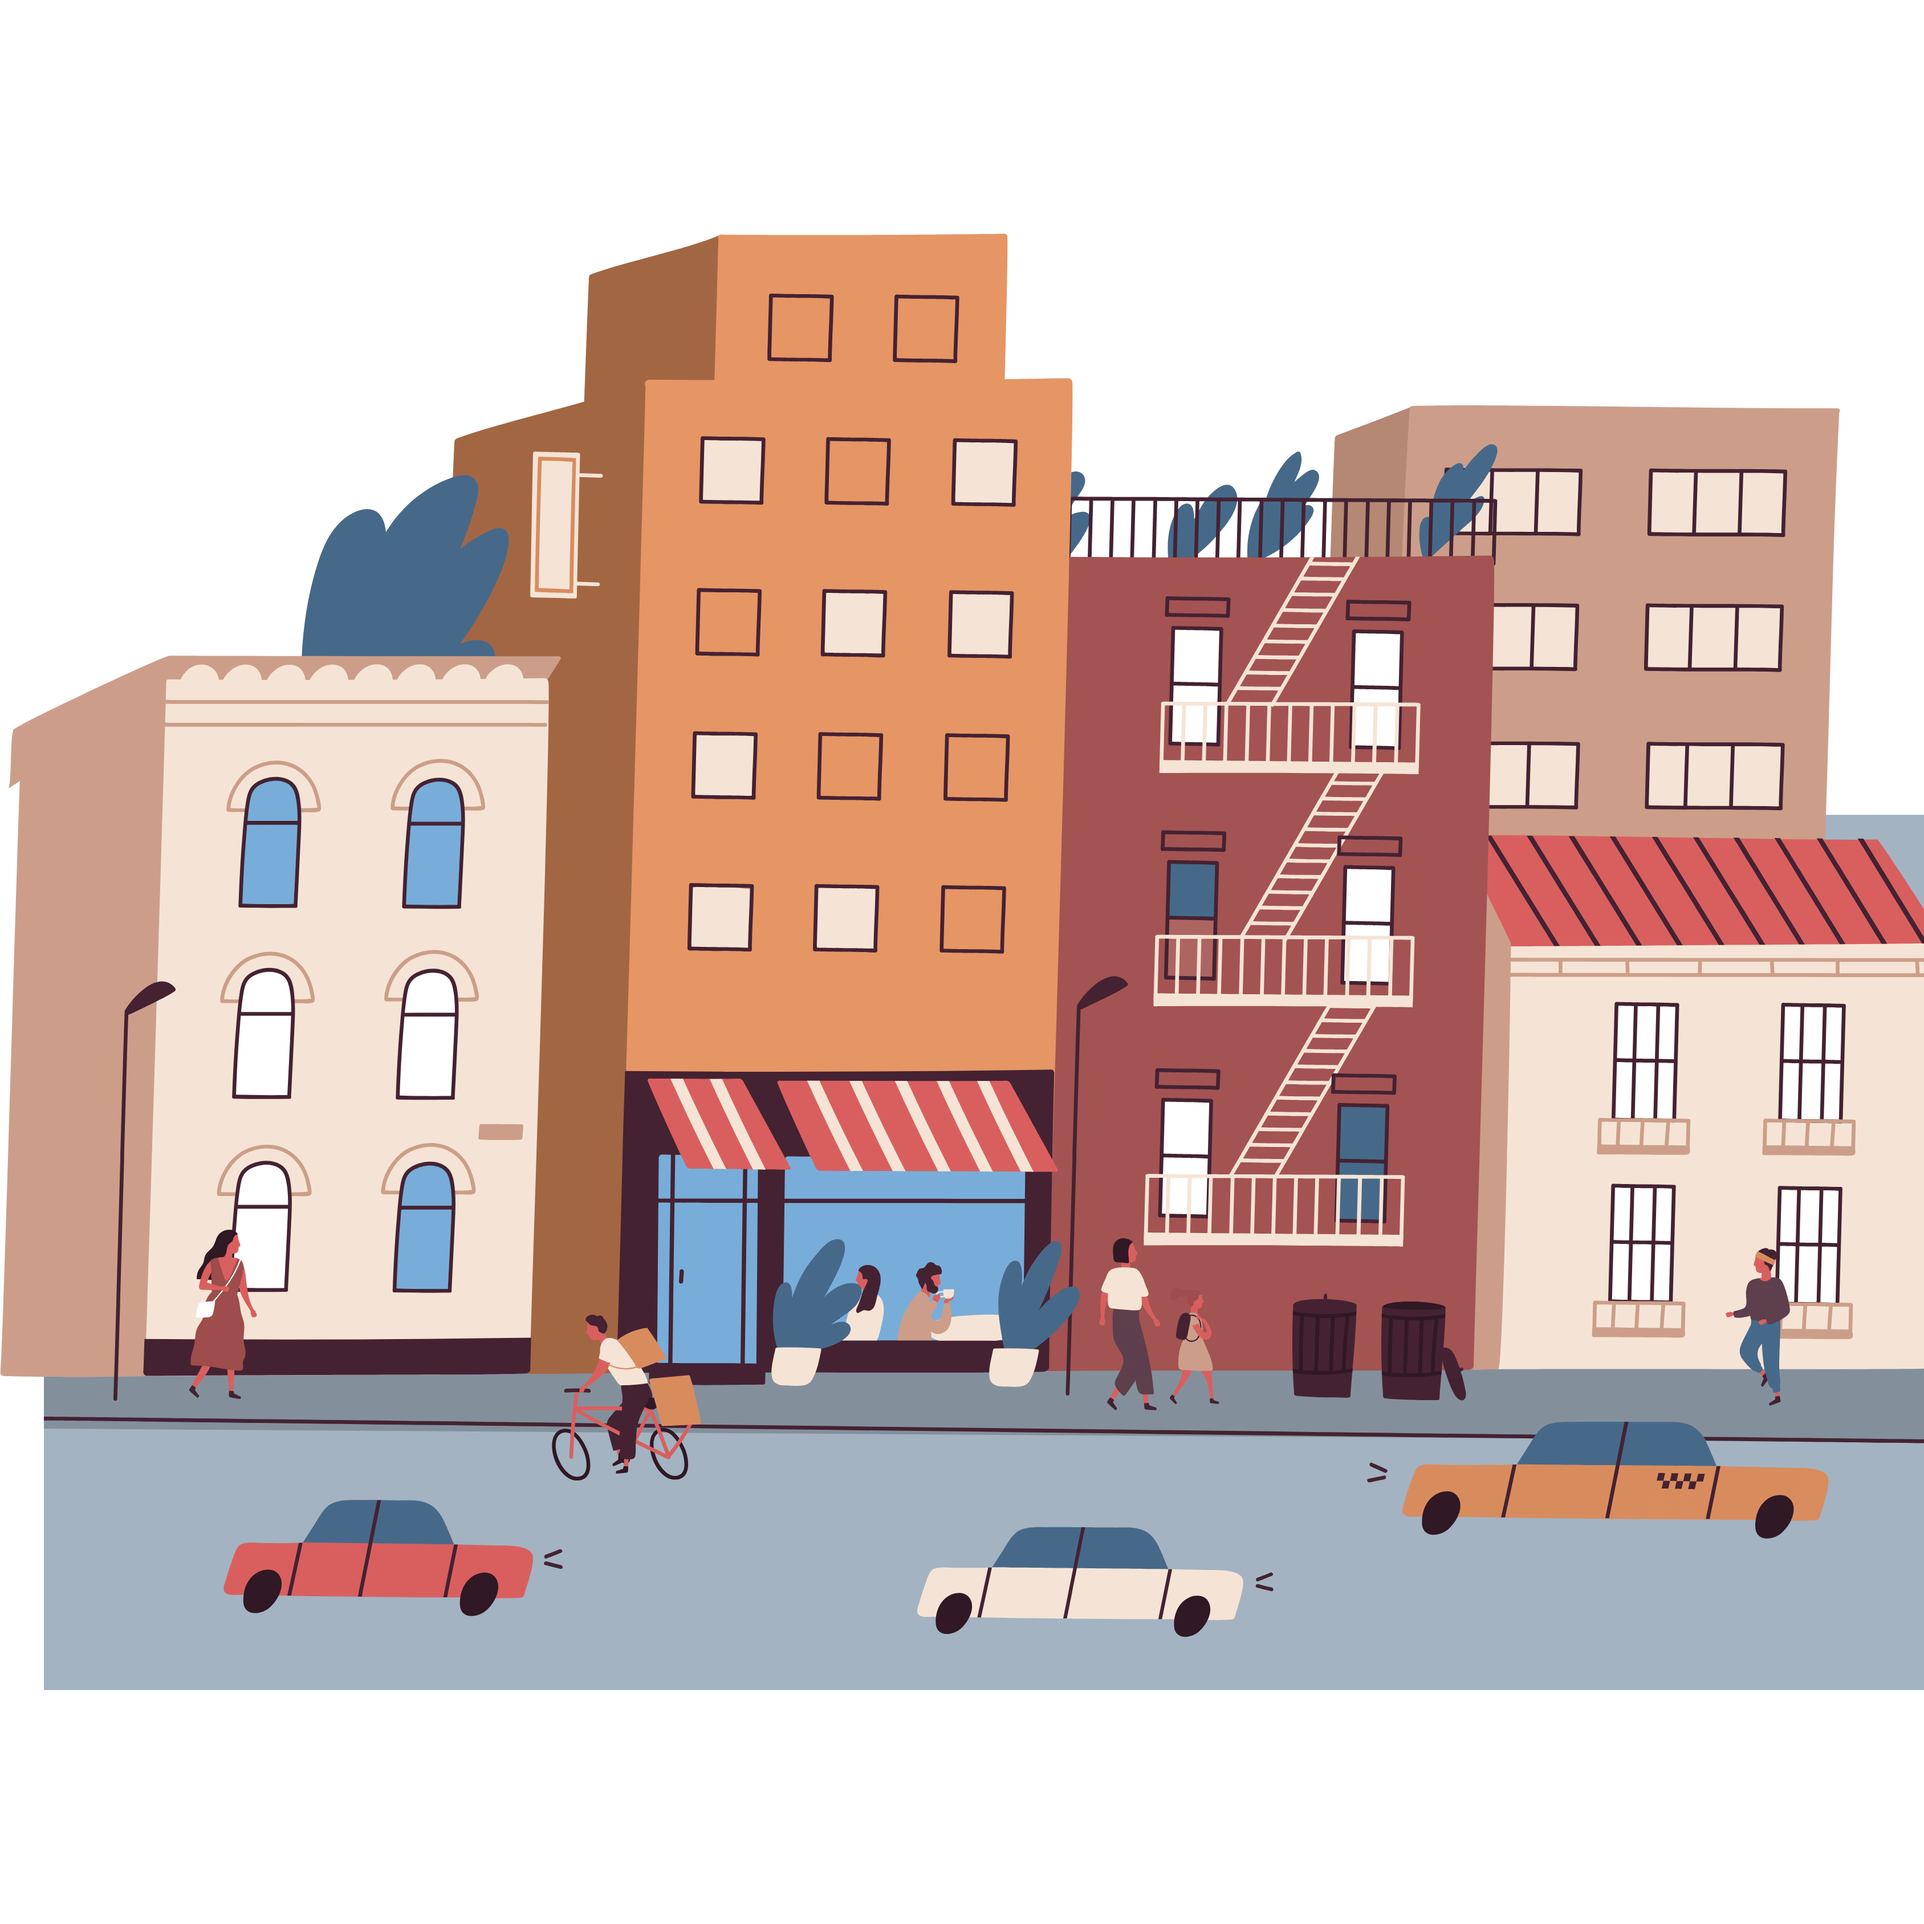
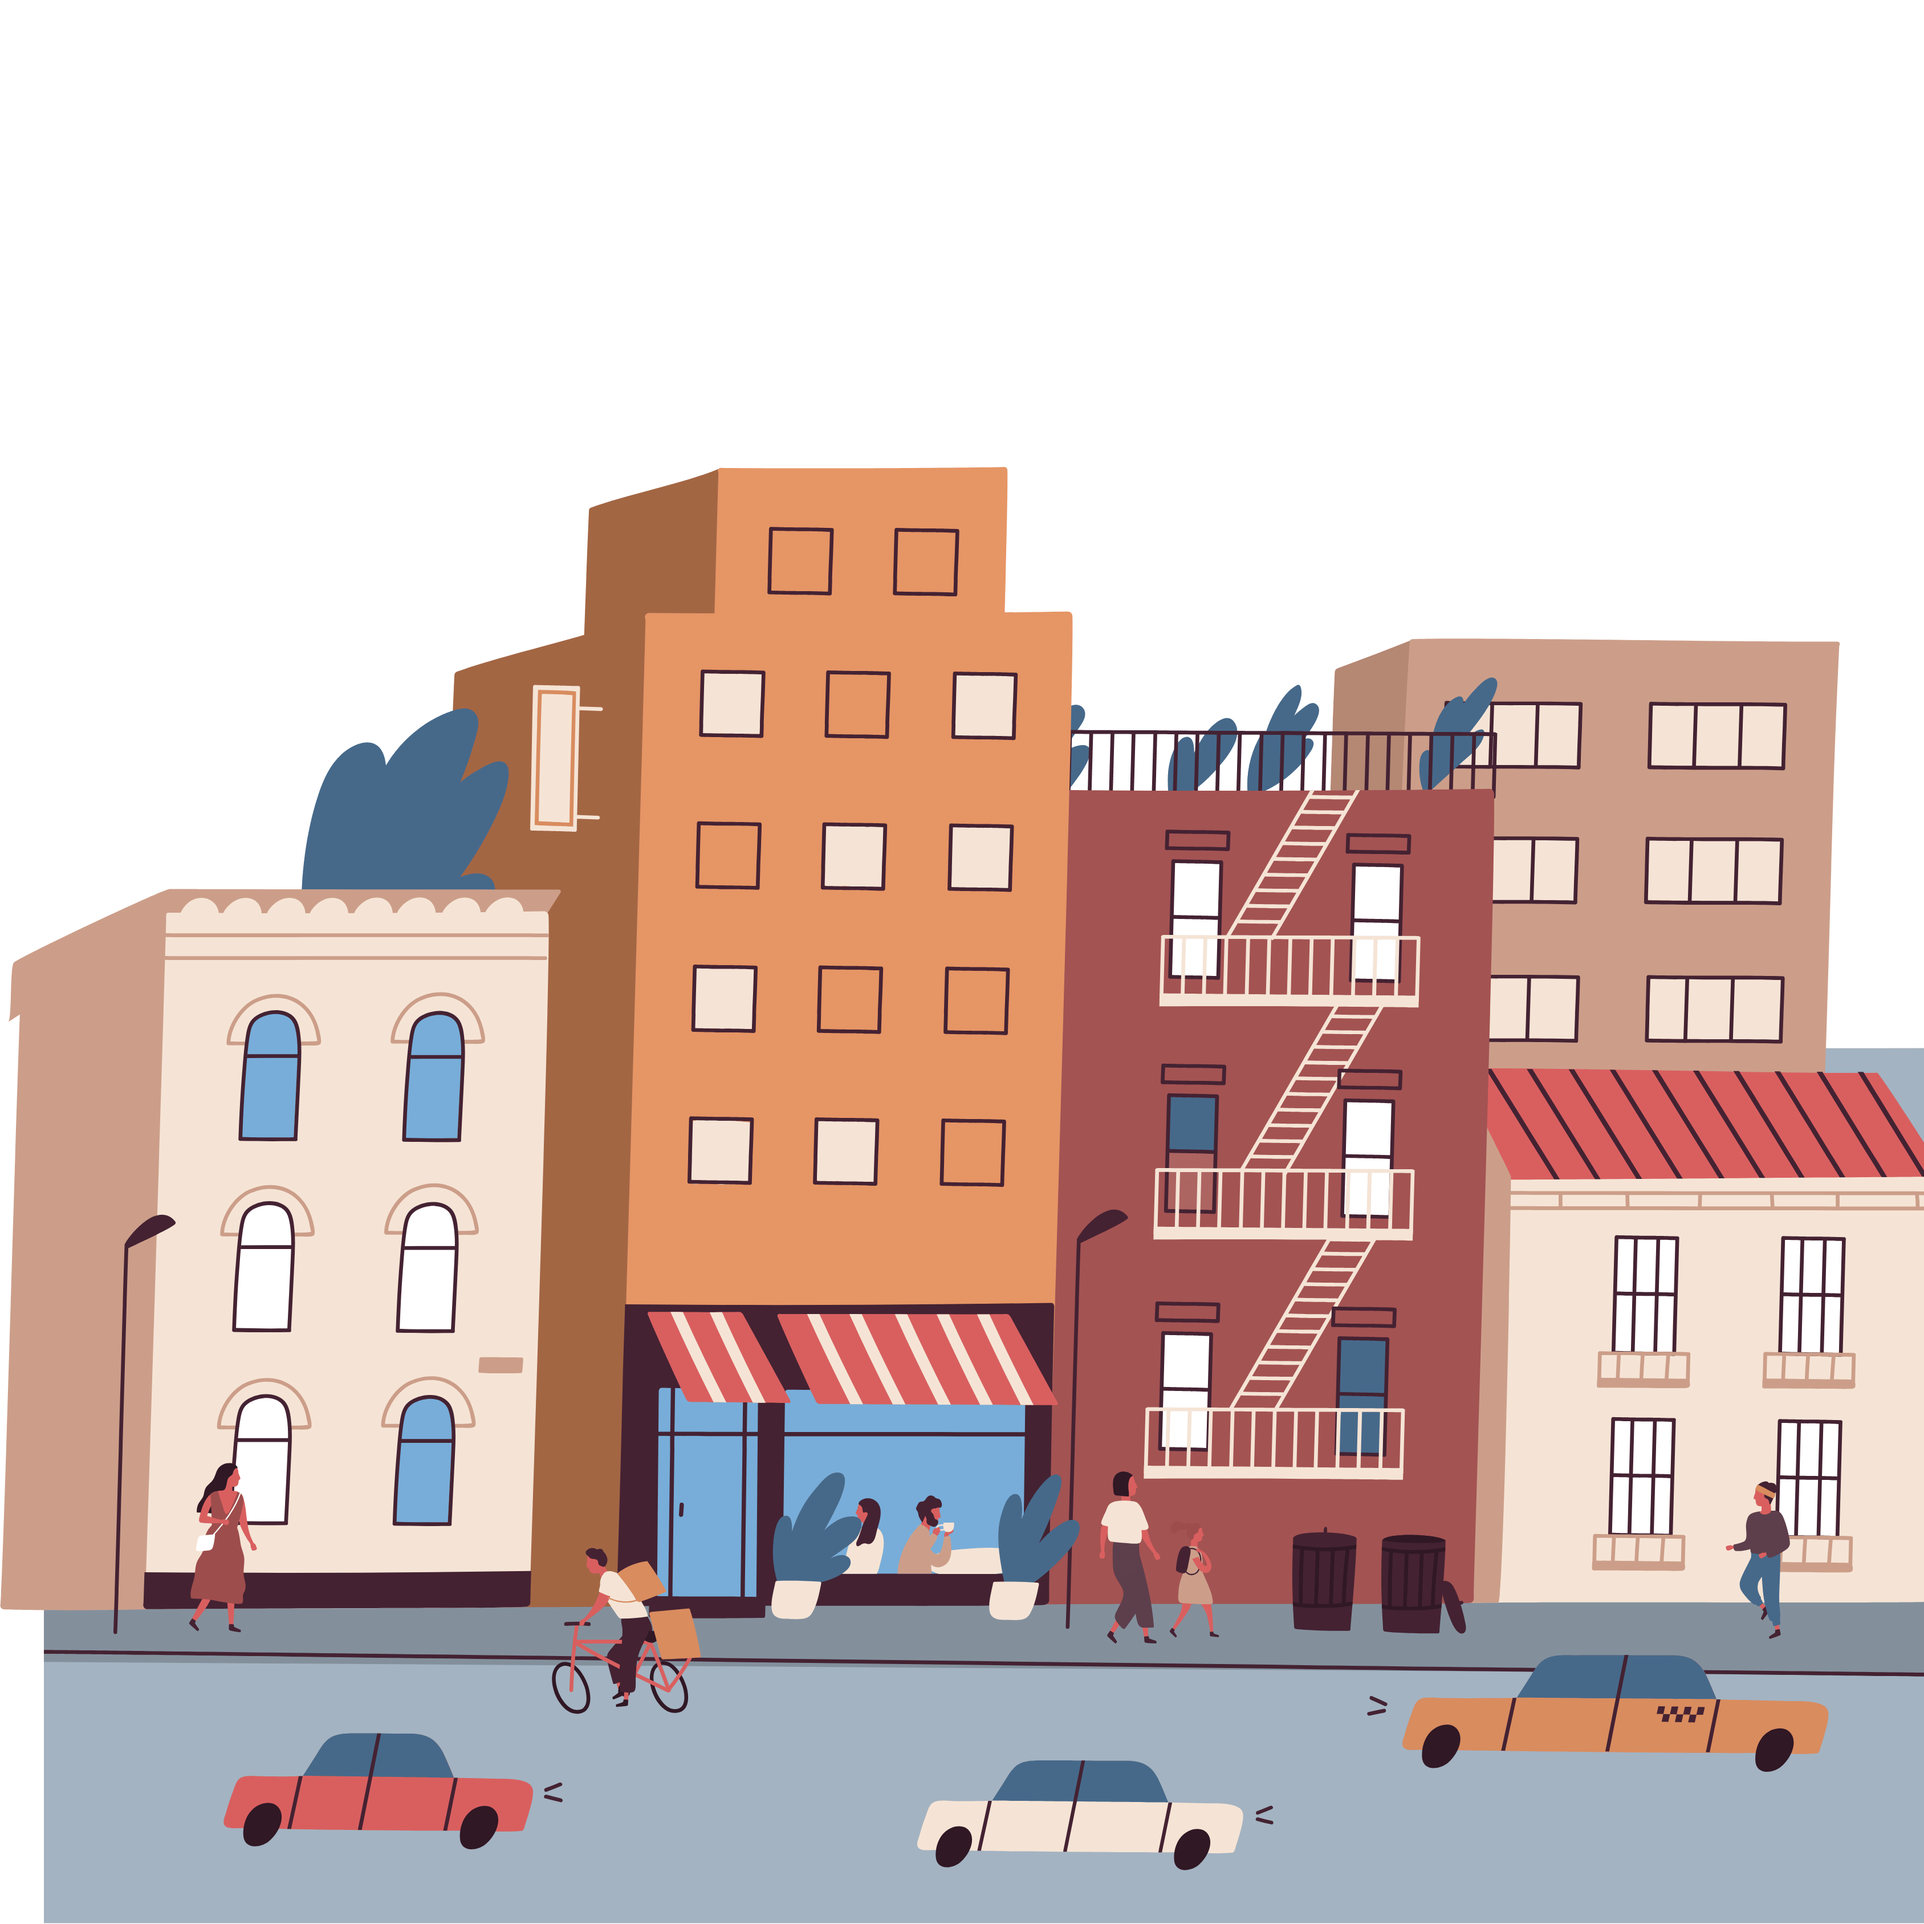
add city imgs for jumbo, add transition

diff --git a/src/pages/HomePage.vue b/src/pages/HomePage.vue
@@ -1,18 +1,27 @@
 <template>
+  <!-- <div class="foods"></div> -->
   <div id="jumbotron">
-    <div class="city">
-      <img src="/images/jumbotron/city1.png" alt="Immagine della città" />
-    </div>
+    <transition name="slide" mode="out-in">
+      <div class="city" :key="currentCityIndex">
+        <img :src="currentCityImage" alt="Immagine della città" />
+      </div>
+    </transition>
     <div class="rider">
       <img src="/images/jumbotron/rider.png" alt="Immagine del rider" />
     </div>
     <div class="text">
-        <h1 class="text-uppercase">
-            Morsi <br>
-            pieni <br>
-            di gusto
-        </h1>
-        <p>Benvenuto su <span class="fst-italic">Munchi</span> – il tuo servizio di food delivery che porta morsi di felicità direttamente a casa tua.</p>
+      <h1 class="text-uppercase">
+        Il tuo <br />
+        morso <br />
+        preferito
+      </h1>
+      <p>
+        Benvenuto su <span class="fst-italic">Munchi</span> – il tuo servizio di
+        food delivery che porta morsi di felicità direttamente a casa tua.
+      </p>
+      <div class="mt-5 text-center">
+        <button class="text-uppercase">vai ai ristoranti</button>
+      </div>
     </div>
   </div>
   <div class="prova2">
@@ -35,15 +44,56 @@
 <script>
 export default {
   name: "HomePage",
+  data() {
+    return {
+      cityImages: [
+        "/images/jumbotron/city1.png",
+        "/images/jumbotron/city2.png",
+        "/images/jumbotron/city3.png",
+        "/images/jumbotron/city4.png",
+      ],
+      currentCityIndex: 0,
+      intervalId: null,
+    };
+  },
+  computed: {
+    currentCityImage() {
+      return this.cityImages[this.currentCityIndex];
+    },
+  },
+  mounted() {
+    this.startImageRotation();
+  },
+  beforeDestroy() {
+    this.stopImageRotation();
+  },
+  methods: {
+    startImageRotation() {
+      this.intervalId = setInterval(() => {
+        this.currentCityIndex =
+          (this.currentCityIndex + 1) % this.cityImages.length;
+      }, 7000);
+    },
+    stopImageRotation() {
+      clearInterval(this.intervalId);
+    },
+  },
 };
 </script>
 
 <style lang="scss" scoped>
 @import "../assets/styles/partials/_variables.scss";
 
+.foods {
+  position: absolute;
+  z-index: 4;
+  width: 100%;
+  height: 100%;
+  background-image: url("/images/jumbotron/foods.png");
+}
 #jumbotron {
   position: relative;
-  z-index: 1;
+  z-index: 5;
   width: 100%;
   height: 100%;
   padding: 80px;
@@ -51,6 +101,7 @@ export default {
   background-size: cover;
   background-position: bottom;
   background-repeat: no-repeat;
+
   .text {
     width: 600px;
     padding-top: 8%;
@@ -59,8 +110,7 @@ export default {
     h1 {
       font-size: 7rem;
       font-weight: 800;
-      letter-spacing: 7px;
-      line-height: 0.9;
+      line-height: 1.07;
       margin-left: -5px;
     }
     p {
@@ -68,20 +118,48 @@ export default {
       font-size: 1rem;
       font-weight: 500;
     }
+    button {
+      font-weight: 500;
+      outline: none;
+      color: $secondary-color;
+      padding: 1em;
+      padding-left: 2em;
+      padding-right: 2em;
+      border: 2px dashed $secondary-color;
+      border-radius: 15px;
+      background-color: $primary-color;
+      box-shadow: 0 0 0 4px $primary-color, 2px 2px 4px 2px rgba(0, 0, 0, 0.5);
+      transition: 0.1s ease-in-out, 0.4s color;
+    }
+
+    button:active {
+      transform: translateX(0.1em) translateY(0.1em);
+      box-shadow: 0 0 0 4px $primary-color,
+        1.5px 1.5px 2.5px 1.5px rgba(0, 0, 0, 0.5);
+    }
+  }
+  .slide-enter-active,
+  .slide-leave-active {
+    transition: 0.5s;
+  }
+  .slide-enter,
+  .slide-leave-to {
+    opacity: 0;
+    transform: translateX(-50px);
   }
   .city {
     position: absolute;
-    z-index: 2;
+    z-index: 9;
     width: 500px;
-    bottom: calc(50% - 200px);
-    right: 17%;
+    bottom: calc(50% - 150px);
+    right: 15%;
     img {
       width: 100%;
     }
   }
   .rider {
     position: absolute;
-    z-index: 3;
+    z-index: 10;
     width: 500px;
     bottom: calc(50% - 280px);
     right: 5%;
